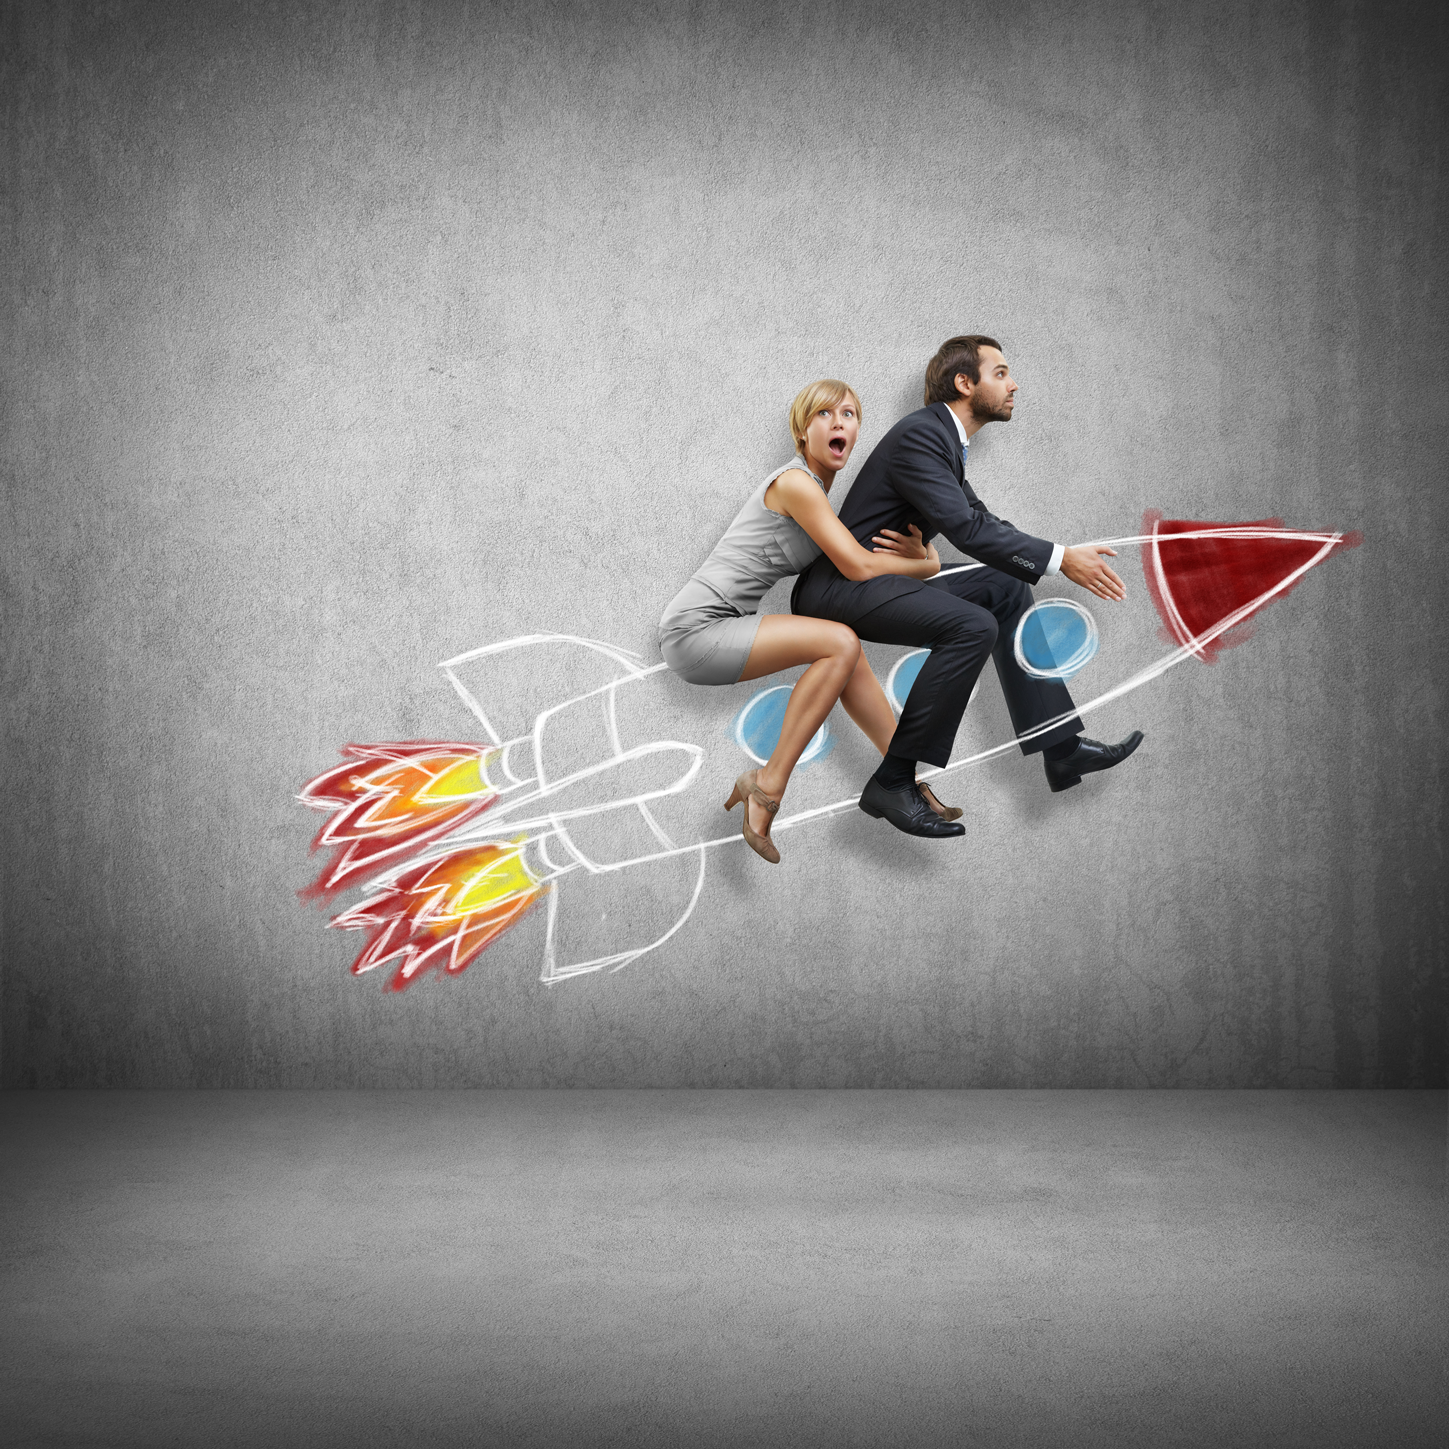
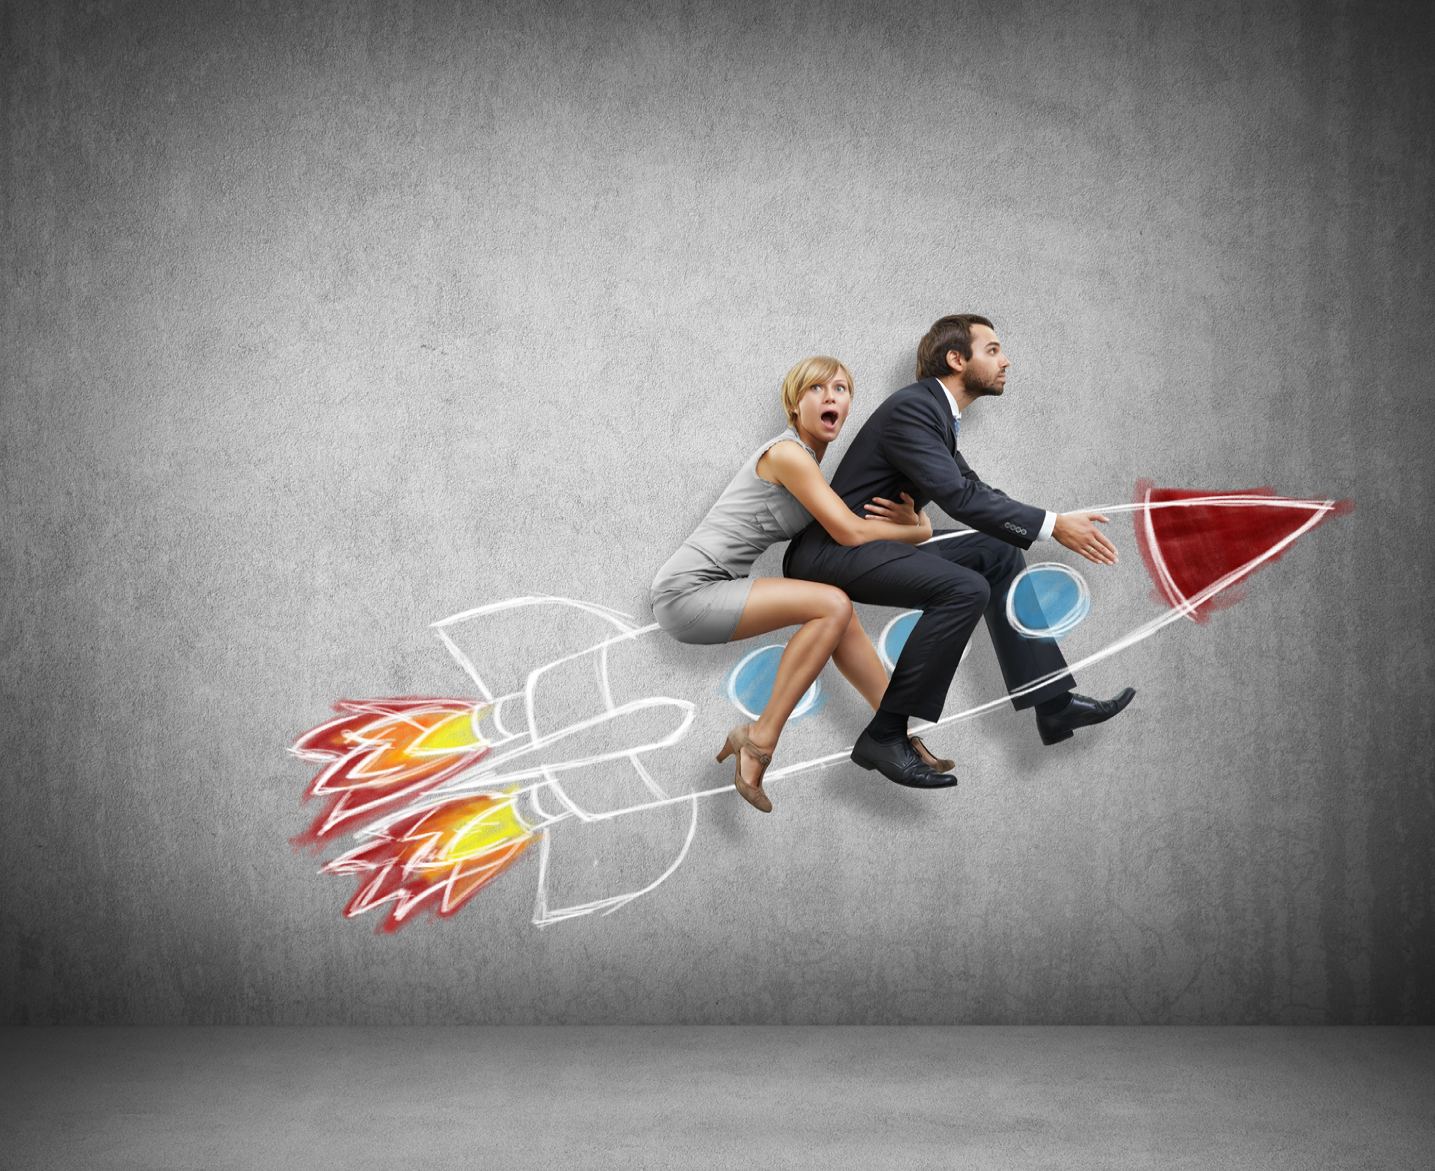
test contact form

diff --git a/index.html b/index.html
@@ -134,14 +134,14 @@
     <li data-target="#carouselIndicators" data-slide-to="2"></li>
   </ol>
   <div class="carousel-inner" role="listbox">
-    <div class="carousel-item active">
-      <img class="d-block w-100" src="./resources/images/web-design.jpg" alt="web design & development concept">
+    <div class="carousel-item row mx-auto active">
+      <img class="d-block col-sm-12" src="./resources/images/web-design.jpg" alt="web design & development concept">
     </div>
-    <div class="carousel-item">
-      <img class="d-block w-100" src="./resources/images/seo.png" alt="search engine optimization (SEO) - abstract">
+    <div class="carousel-item row mx-auto">
+      <img class="d-block col-sm-12" src="./resources/images/seo.png" alt="search engine optimization (SEO) - abstract">
     </div>
-    <div class="carousel-item">
-      <img class="d-block w-100" src="./resources/images/logo-design.png" alt="logo design">
+    <div class="carousel-item row mx-auto">
+      <img class="d-block col-sm-12" src="./resources/images/logo-design.png" alt="logo design">
     </div>
   </div>
   <a class="carousel-control-prev" data-target="#carouselIndicators" role="button" data-slide="prev">
@@ -158,30 +158,45 @@
 	
 <!-- Services -->
 <section class="parallax py-5" id="services">
-  <div class="container py-5 well">
+  <div class="container well">
     <div class="row">
-      <div class="col-lg-4 col-md-6 col-sm-6">
-        <div class="media py-2">
+		
+		<!-- Wed Design -->
+      <div class="col-lg-4 col-md-4 col-sm-12 py-5">
+        <div class="media">
           <div class="media-left p-2"> <a href="#"> <img class="media-object" src="resources/images/web-design-icon.png" alt="Web Design icon"> </a> </div>
           <div class="media-body">
-            <h2 class="media-heading">Website Design & Development</h2>
-            Cras sit amet nibh libero, in gravida nulla. Nulla vel metus scelerisque ante sollicitudin commodo. Cras purus odio, vestibulum in vulputate at, tempus viverra turpis. </div>
+            <h3 class="media-heading">Website Design & Development</h3>
+            Cras sit amet nibh libero, in gravida nulla. Nulla vel metus scelerisque ante sollicitudin commodo. Cras purus odio, vestibulum in vulputate at, tempus viverra turpis. 
+			<br>
+		    <br>
+			<span class="mx-auto">Learn More...</span></div>
         </div>
       </div>
-      <div class="col-lg-4 col-md-6 col-sm-6">
-        <div class="media py-2">
+		
+		<!-- SEO -->
+      <div class="col-lg-4 col-md-4 col-sm-12 py-5">
+        <div class="media">
           <div class="media-left p-2"> <a href="#"> <img class="media-object" src="resources/images/seo-icon.png" alt="Search Engine Optimization Icon"> </a> </div>
           <div class="media-body">
-            <h2 class="media-heading">Search Engine Optimization (SEO)</h2>
-            Cras sit amet nibh libero, in gravida nulla. Nulla vel metus scelerisque ante sollicitudin commodo. Cras purus odio, vestibulum in vulputate at, tempus viverra turpis. </div>
+            <h3 class="media-heading">Search Engine Optimization (SEO)</h3>
+            Cras sit amet nibh libero, in gravida nulla. Nulla vel metus scelerisque ante sollicitudin commodo. Cras purus odio, vestibulum in vulputate at, tempus viverra turpis. 
+			<br>
+		    <br>
+			<span class="mx-auto">Learn More...</span></div>
         </div>
       </div>
-      <div class="col-lg-4 col-md-6 col-sm-6">
-        <div class="media py-2">
+		
+		<!-- Logo Design -->
+      <div class="col-lg-4 col-md-4 col-sm-12 py-5">
+        <div class="media">
           <div class="media-left p-2"> <a href="#"> <img class="media-object" src="resources/images/logo-design-icon.png" alt="..."></a></div>
           <div class="media-body">
-            <h2 class="media-heading">Logo & Graphic Design</h2>
-            Cras sit amet nibh libero, in gravida nulla. Nulla vel metus scelerisque ante sollicitudin commodo. Cras purus odio, vestibulum in vulputate at, tempus viverra turpis. </div>
+            <h3 class="media-heading">Logo & Graphic Design</h3>
+            Cras sit amet nibh libero, in gravida nulla. Nulla vel metus scelerisque ante sollicitudin commodo. Cras purus odio, vestibulum in vulputate at, tempus viverra turpis. 
+			<br>
+		    <br>
+			<span class="mx-auto">Learn More...</span></div>
         </div>
       </div>
     </div>
@@ -224,21 +239,66 @@
         </div>
 	</div>
 </section>
-
+<hr>
 <section class="py-5" id="contact">
   <div class="container">
     <div class="row">
       <div class="col-lg-12 text-center">
         <h1>Lorem ipsum dolor sit amet</h1>
         <p>Lorem ipsum dolor sit amet, consectetur adipisicing elit. Quibusdam, magni, doloribus, possimus eum sapiente deleniti doloremque fugit ut expedita molestiae iusto debitis eveniet modi obcaecati ipsam quos quis labore dicta.</p>
-		<button type="button" class="btn btn-success">Get in touch</button>
+		<button type="button" class="btn btn-primary">Get in touch</button>
       </div>
     </div>
   </div>
 </section>
+	
+	<section>
+		<div class="container">
+					<form action="https://formspree.io/jason@thewebgents.com" method="POST">
+					<!--Grid row-->
+					<div class="row">
+							<!--Grid column-->
+							<div class="col-md-6 pb-3">
+									<div class="md-form">
+											<input type="text" id="name" name="name" class="form-control" placeholder="Name">
+									</div>
+							</div>
+							<!--Grid column-->
+							<div class="col-md-6 pb-3">
+									<div class="md-form">
+											<input type="text" id="phone" name="phone" class="form-control" placeholder="Phone number">
+									</div>
+							</div>
+							<!--Grid column-->
+					</div>
+					<!--Grid row-->
+					<div class="row">
+							<div class="col-md-12 pb-3">
+									<div class="md-form">
+											<input type="text" id="email" name="email" class="form-control" placeholder="Email">
+									</div>
+							</div>
+					</div>
+					<!--Grid row-->
+					<div class="row">
+							<!--Grid column-->
+							<div class="col-md-12 pb-3">
+									<div class="md-form">
+											<textarea type="text" id="message" name="message" rows="7" class="form-control md-textarea" placeholder="Type your message here..."></textarea>
+									</div>
+							</div>
+							<div class="col-md-12 pb-3">
+									<div class="md-form">
+											<input type="submit" value="Send" class="">
+									</div>
+							</div>
+					</div>
+				</form>
+		</div>
+	</section>
 
 <section class="footer pt-5">
-<div class="section well">
+<div class="well">
     <div class="container">
    	  <div class="row">
 		<div class="col-lg-4 col-md-4">
@@ -255,11 +315,9 @@
 </address>
 </div>
 </div>
-    </div>
-	</div>
-
+</div>
+</div>
     <p class="text-center pt-5 pb-1">Copyright © 2018 | Web Gents Inc. All rights reserved.</p>
-
 </section>
     
 <!-- Back to top button -->

diff --git a/resources/css/style.css b/resources/css/style.css
@@ -30,7 +30,7 @@ section {
 }
 
 .parallax {
-	background-color: rgba(0,0,0,.65);
+	background-color: rgba(0,0,0,.7);
 	color: #FDF6F9;
 }
 
@@ -66,13 +66,21 @@ section {
 	border-radius: 0;
 }
 
+/* --- Nav Bar Styling --- */
 .nav-link {
-	transition: color 300ms ease !important;
+	transition: all 350ms ease !important;
 	font-size: 1.25em !important;
+	top: 0;
+	position: relative;
 }
 
 .nav-link.active {
 	color: #FBF6F9 !important;
+	top: -6px;
+}
+
+.bg-dark {
+	background-color: #191923 !important;
 }
 
 /* --- Return to top button formatting --- */
@@ -122,17 +130,27 @@ section {
 }
 
 /* Carousel styling */
-.carousel-item img {
-	height: 50vh;
-	object-fit:fill;
+.carousel-item {
+	
 }
 
+.carousel-item img {
+	object-fit: fill;
+	height: 60vh !important;
+}
+
+.carousel-indicators li:hover, .carousel-control-next:hover, .carousel-control-prev:hover {
+	cursor: pointer;
+}
+
+/* --- Footer --- */
 .footer {
 	background-image:url('../images/footer-bg.png');
 	background-position: center;
 	background-repeat: no-repeat;
 	background-size:cover;
 	color: #fdf6f9;
+	overflow: hidden;
 }
 
 hr {
@@ -140,6 +158,24 @@ hr {
 	background-color: #fdf6f9;
 }
 
-.carousel-indicators li:hover, .carousel-control-next:hover, .carousel-control-prev:hover {
-	cursor: pointer;
+/* --- button styling --- */
+.btn-primary {
+	background-color: #0E79B2 !important;
+	transition: all 300ms ease;
+}
+
+.btn-primary:hover {
+	background-color: #0B608D !important;
+}
+
+.form-control {
+	border-top: none;
+	border-left: none;
+	border-right: none;
+	border-radius: 0;
+}
+
+.form-control:focus {
+	box-shadow: none;
+	border-bottom: 2px solid #1292B9;
 }
